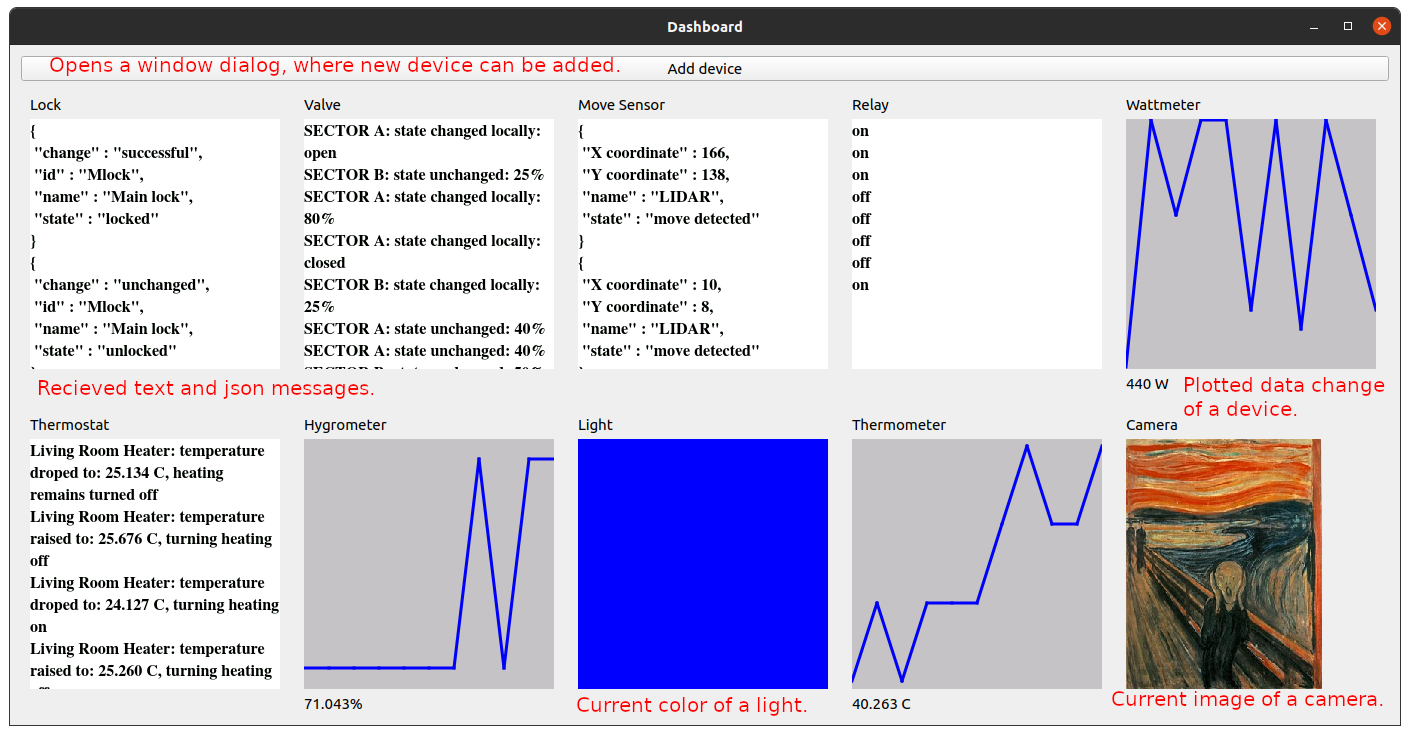
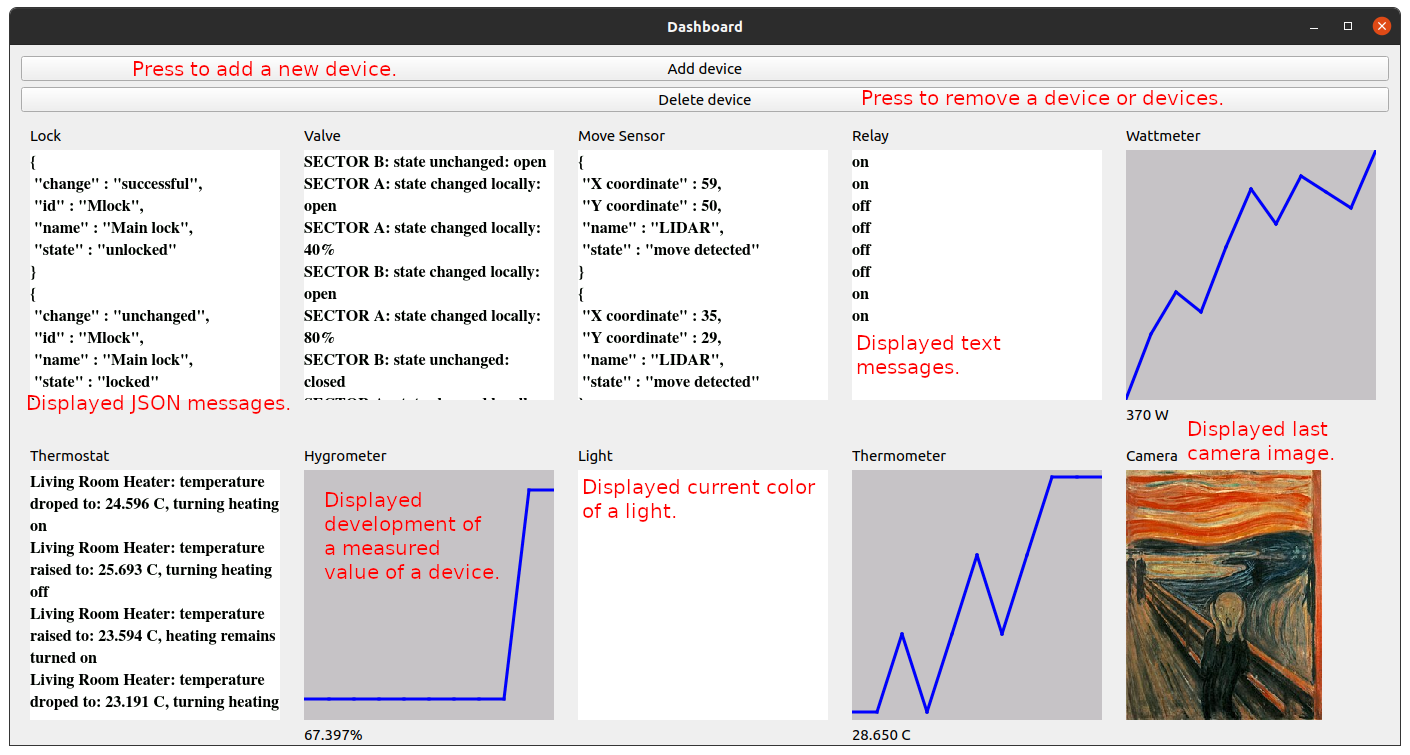
possibly final changes

diff --git a/src/explorer/dashboard_view.cpp b/src/explorer/dashboard_view.cpp
@@ -17,9 +17,9 @@ DashboardView::DashboardView(DashboardController *dashboard_controller, FlowLayo
 {
     _central_layout = new QVBoxLayout();
     _add_device = new QPushButton();
-    _add_device->setText("Add device");
+    _add_device->setText("Add Device");
     _delete_device = new QPushButton();
-    _delete_device->setText("Delete device");
+    _delete_device->setText("Delete Device");
     QObject::connect(_add_device, &QPushButton::clicked, this, &DashboardView::on_add_device_clicked);
     QObject::connect(_delete_device, &QPushButton::clicked, this, &DashboardView::on_delete_device_clicked);
 
@@ -32,7 +32,7 @@ DashboardView::DashboardView(DashboardController *dashboard_controller, FlowLayo
     setLayout(_central_layout);
 
     this->setWindowTitle("Dashboard");
-    this->resize(1390, 680);
+    this->resize(1390, 700);
 
     connect(_add_dialog, SIGNAL(new_device_added(QString,QString,uint)), this, SLOT(add_device(QString,QString,uint)));
     connect(_delete_dialog, SIGNAL(pass_selected_devices(std::vector<int>)), this, SLOT(delete_devices(std::vector<int>)));

diff --git a/examples/examples.cpp b/examples/examples.cpp
@@ -23,7 +23,11 @@
  * \image html ../examples/images/main_window.png "The main window of the MQTT Explorer." <br>
  * 
  * \image html ../examples/images/dashboard.png "The dashboard of the MQTT Explorer." <br>
+ *
+ * \image html ../examples/images/add_device.png "The add new device dialog." <br>
  * 
+ * \image html ../examples/images/delete_device.png "The delete device dialog." <br>
+ *  
  * @section S2 Examples of Makefile Usage
  * @verbatim
  'make'                 - builds both the MQTT explorer as well as the simulator.
@@ -51,6 +55,7 @@
  * 
  * \image html ../examples/images/new_device_example.png "Example of how to add a new device to the dashboard." <br>
  * 
+ * \image html ../examples/images/delete_device_example.png "Example of how delete a device or devices on the dashboard." <br>
  * 
  * @section S4 Examples of Usage of The Simulator
  * @subsection ss1 Startup examples

diff --git a/src/explorer/delete_device_dialog.h b/src/explorer/delete_device_dialog.h
@@ -1,5 +1,14 @@
-#ifndef DELETE_DEVICE_DIALOG_H
-#define DELETE_DEVICE_DIALOG_H
+
+/**
+ * @file        delete_device_dialog.h
+ * Case:        VUT, FIT, ICP, project                                      <br>
+ * Authors:     Vladislav Sokolovskii, xsokol15@stud.fit.vutbr.cz           <br>
+ * Date:        summer semester 2021                                        <br>
+ * Compiled:    g++ (Ubuntu 9.3.0-17ubuntu1~20.04) 9.3.0                    <br>
+ * @brief       Declaration of a class, which manages a window for deleting devices to the dasboard. 
+ **/
+
+#pragma once
 
 #include <QDialog>
 #include <QListWidget>
@@ -44,4 +53,3 @@ private:
     Ui::DeleteDeviceDialog *ui;
 };
 
-#endif // DELETE_DEVICE_DIALOG_H

diff --git a/src/explorer/delete_device_dialog.cpp b/src/explorer/delete_device_dialog.cpp
@@ -1,3 +1,13 @@
+
+/**
+ * @file        delete_device_dialog.cpp
+ * Case:        VUT, FIT, ICP, project                                      <br>
+ * Authors:     Vladislav Sokolovskii, xsokol15@stud.fit.vutbr.cz           <br>
+ * Date:        summer semester 2021                                        <br>
+ * Compiled:    g++ (Ubuntu 9.3.0-17ubuntu1~20.04) 9.3.0                    <br>
+ * @brief       Implementation of constructors, destructors and functions of the DeleteDeviceDialog class. 
+ **/
+
 #include "delete_device_dialog.h"
 #include "ui_delete_device_dialog.h"
 
